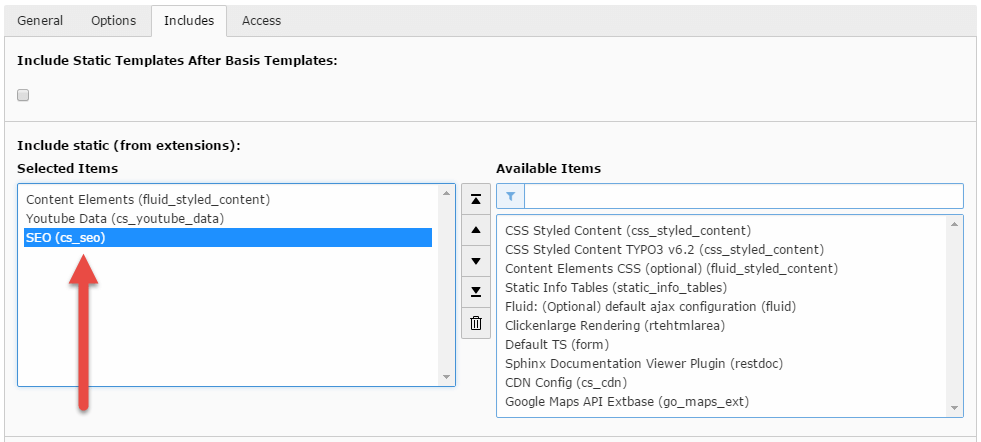
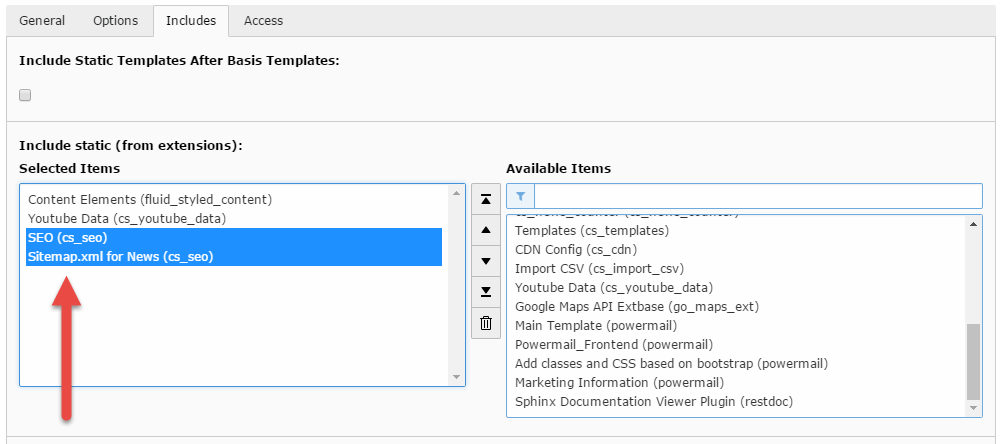
[FEATURE] doc extend sitemap

diff --git a/Configuration/TypoScript/Setup/plugin.ts b/Configuration/TypoScript/Setup/plugin.ts
@@ -38,7 +38,7 @@ plugin.tx_csseo {
 			languageUids = {$plugin.tx_csseo.sitemap.pages.languageUids}
 		}
 		additional {
-			# addition external sitemaps, e.g.:
+			# addition external sitemaps, e.g. https://example.org/sitemap-blog.xml
 			1 = {$plugin.tx_csseo.sitemap.additional}
 		}
 	}

diff --git a/Documentation/Developer/ExtendSitemap/Index.rst b/Documentation/Developer/ExtendSitemap/Index.rst
@@ -1,0 +1,87 @@
+.. ==================================================
+.. FOR YOUR INFORMATION
+.. --------------------------------------------------
+.. -*- coding: utf-8 -*- with BOM.
+
+.. include:: ../../Includes.txt
+
+
+.. _extend-sitemap:
+
+Extend the Sitemap.xml
+----------------------
+
+The sitemap.xml generation in cs_seo is very flexible. Here is shown how to extend the sitemap.xml for extensions and with external sitemaps.
+
+.. _extend-sitemap-news-ts:
+
+Add TypoScript for news
+^^^^^^^^^^^^^^^^^^^^^^^
+
+Include the TypoScript from cs_seo called "Sitemap.xml for News". The reference you'll find here: :ref:`news.sitemap.reference`.
+
+
+.. _extend-sitemap-records-ts:
+
+Add TypoScript for records
+^^^^^^^^^^^^^^^^^^^^^^^^^^
+
+To add records from your own extension you can easily add the following TypoScript.
+
+::
+
+    # default configuration to show a sitemap.xml for tx_news records #
+    plugin.tx_csseo.sitemap {
+		extensions {
+			# configuration for an extension, the name is an identifier
+			myext {
+				# string; the table name where the records are stored
+				table = tx_myext_domain_model_entry
+
+				# string; will be attached to the typolink, more params are possible, the last one is the record param
+				additionalParams = tx_myext_pi1[entry]
+
+				# comma separated list; page uid where are the records stored
+				storagePid =
+
+				# int; page uid where the details are shown
+				detailPid =
+
+				# comma separated list; configure the available languages, e.g.: 0,1
+				languageUids =
+
+				# comma separated list; display only records with this categories
+				categories =
+
+				# string; if categories were saved in the same table, set here the field name
+				categoryField =
+
+				# string; if categories were saved in a MM-Table set here the name of the table
+				categoryMMTable = sys_category_record_mm
+
+				# boolean; true if the MM table has a column 'tablenames' which contains the current record table
+				categoryMMTablenames = 1
+
+				# string; if set the column 'fieldname' of the MM-table must be this
+				categoryMMFieldname = categories
+			}
+		}
+	}
+
+.. _extend-sitemap-additional-ts:
+
+Add more external sitemaps
+^^^^^^^^^^^^^^^^^^^^^^^^^^
+
+If you wish to set the whole page to noindex, e.g. for development, you can use the following TS.
+
+::
+
+	plugin.tx_csseo.sitemap {
+		additional {
+			# addition external sitemaps:
+			10 = https://mysite.com/sitemap-blog.xml
+		}
+	}
+
+Don't to forget to remove this TypoScript in production.

diff --git a/Documentation/Configuration/Sitemap/Index.rst b/Documentation/Configuration/Sitemap/Index.rst
@@ -7,6 +7,9 @@
 Sitemap.xml
 -----------
 
+Here we show the constants which are available to configure the sitemap.xml. If you want to know how to extend the
+sitemap for example for your own extension or tx_news see also: :ref:`extend-sitemap`.
+
 Properties
 ^^^^^^^^^^
 
@@ -63,6 +66,8 @@ Additional
          :ref:`t3tsref:data-type-string`
    Description
          If you would like to add an external sub sitemap.xml enter the complete URL here. More URLs can be added in the TypoScript Setup.
+
+.. _news.sitemap.reference:
 
 Sitemap for news records
 ^^^^^^^^^^^^^^^^^^^^^^^^

diff --git a/Documentation/Administrator/Index.rst b/Documentation/Administrator/Index.rst
@@ -26,7 +26,7 @@ Installation
 To install the extension, perform the following steps:
 
 #. Download and install the extension via Extension Manager or Composer
-#. Include the TypoScript from the extension!
+#. Include the TypoScript from the extension! Include optionally "Sitemap.xml for news" if you use tx_news.
 #. Insert a domain record at the root page
 #. Make some configurations via TypoScript.
 #. Run the Scheduler Task to evaluate all pages initially.

diff --git a/Documentation/Developer/Index.rst b/Documentation/Developer/Index.rst
@@ -19,4 +19,5 @@ Here you find information for developers, e.g how to extend an existing extbase 
 
 	ExtendExistingModel/Index
 	ExtendEvaluation/Index
+	ExtendSitemap/Index
 	OverrideTypoScript/Index
